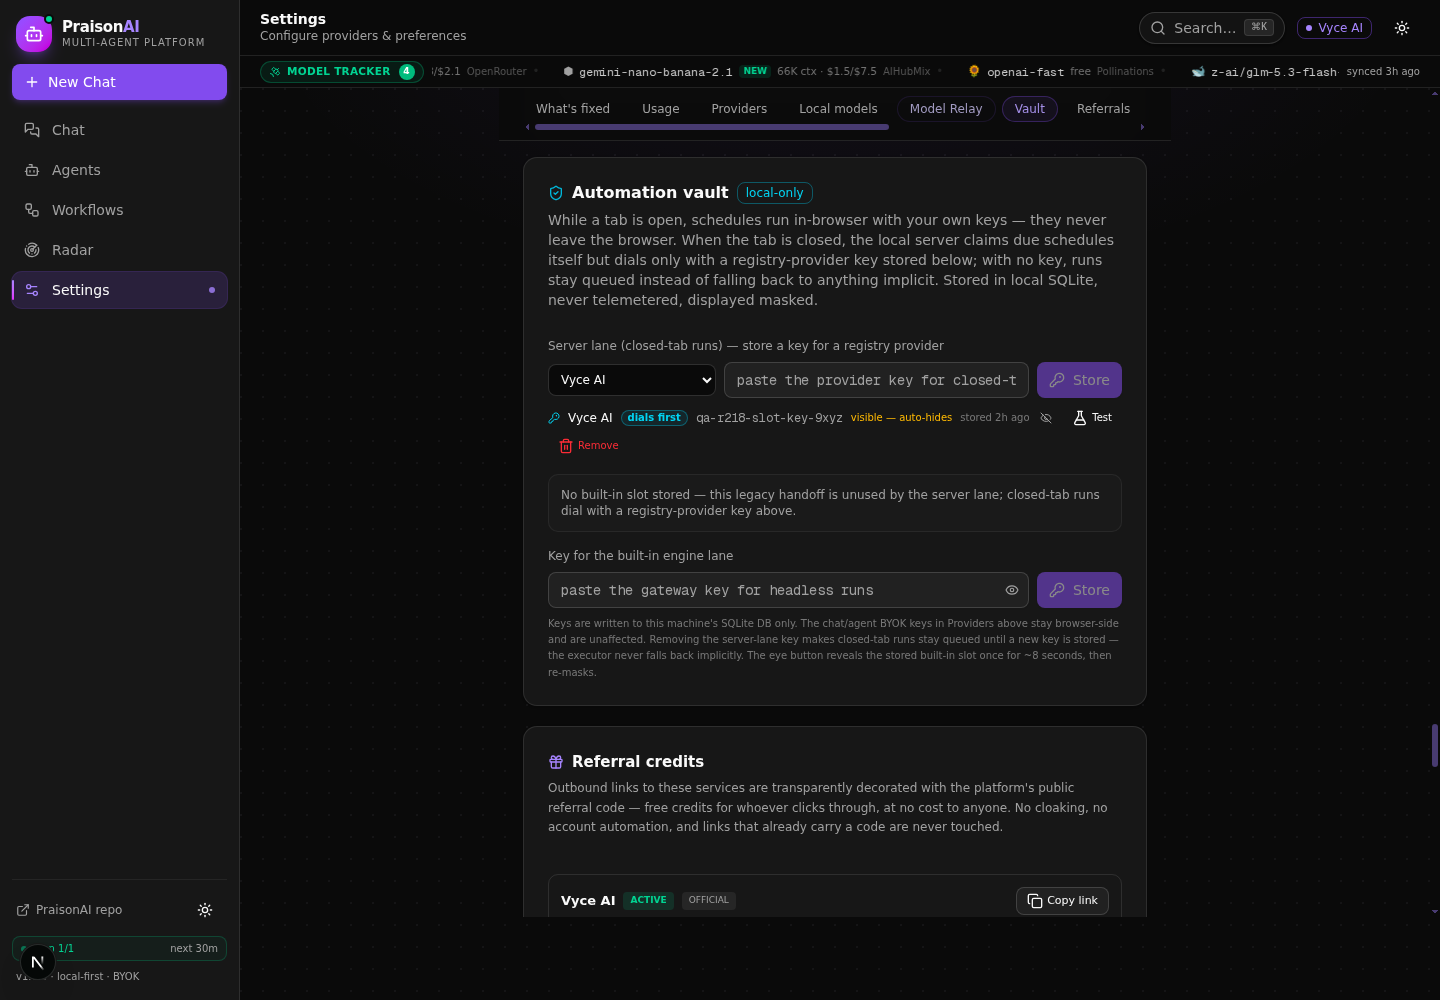
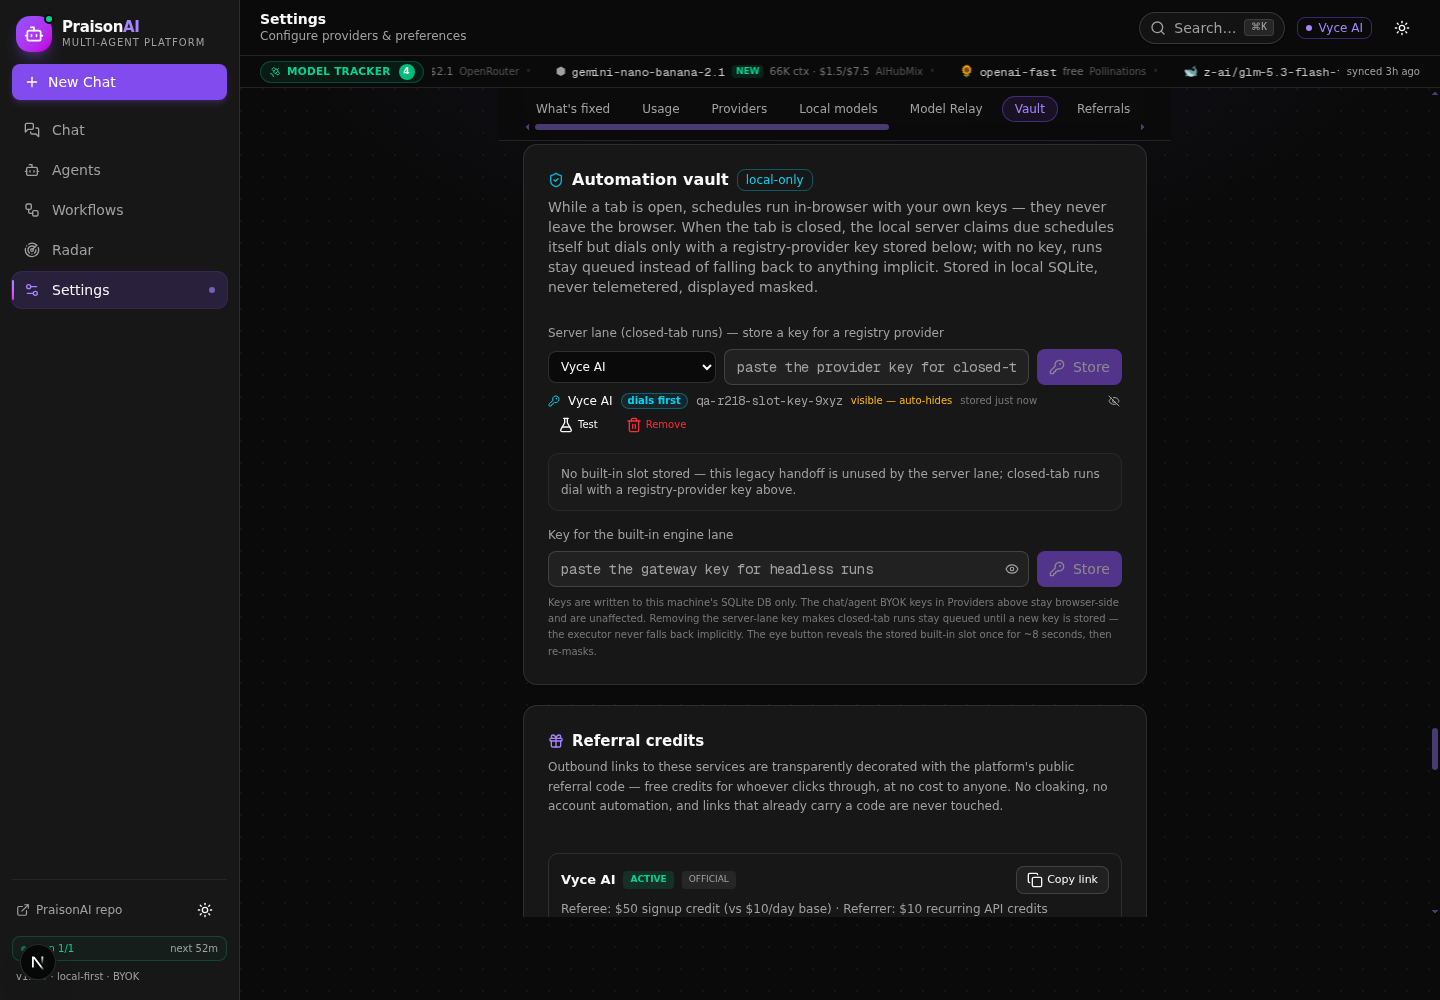
snapshot: 2026-10-07T12:10:08Z auto-backup

diff --git a/src/components/praison/settings/whats-fixed.tsx b/src/components/praison/settings/whats-fixed.tsx
@@ -351,6 +351,15 @@ const FIXES: FixNote[] = [
     lookFor:
       "Settings → provider gallery shows Pollinations as “No key needed — start chatting”; after a Vyce 429 (post-reload), the parked card's failed-dial witness should show a Pollinations dial among the lanes",
   },
+  {
+    round: "r325",
+    title:
+      "The vault route is uniformly CSRF-gated — upsert and delete included, not just the raw-key handoff",
+    detail:
+      "The r321 gate covered POST /api/vault/consume, but POST /api/vault (upsert) and DELETE /api/vault were still open to a drive-by page: a preflight-free simple request could overwrite a stored slot or plant an attacker-chosen provider+key pair the closed-tab executor would then dial. The house double-gate now guards GET, POST, and DELETE; every in-app caller sends the header; non-browser callers (scheduler, CLI, QA scripts) pass unchanged.",
+    lookFor:
+      "No visible change for you (headers are automatic) — Settings → Automation vault behaves exactly as before; foreign pages now get a 403 on every vault operation.",
+  },
 ];
 
 // r294: the covered range is DERIVED from FIXES (first → last entry) instead

diff --git a/scripts/qa-automation-lane.ts b/scripts/qa-automation-lane.ts
@@ -160,6 +160,21 @@ try {
   ok(s1.vaultLane?.hasKey === false, "legacy vaultLane still reported (compat)");
 
   // Shape 2: builtin-only slot → the executor skips it, and the route says so.
+  // r326 incident guard (inline — bun/TS): refuse to seed+destroy vault
+  // slots when a real user vault is populated. The 2026-10-07 wipe of the
+  // user's live Vyce slot happened exactly this way (upsert overwrote it).
+  const guardRes = await fetch(`${BASE}/api/vault`);
+  const guardJson = (await guardRes.json().catch(() => null)) as { vault?: unknown[] } | null;
+  const slotCount = Array.isArray(guardJson?.vault) ? guardJson.vault.length : -1;
+  if (slotCount !== 0) {
+    console.error(
+      `[qa-guard] qa-automation-lane: ABORT — /api/vault holds ` +
+        `${slotCount >= 0 ? slotCount : "an unreadable number of"} slot(s); ` +
+        `seeding would DESTROY user keys (the r326 incident).`
+    );
+    process.exit(2);
+  }
+  ok(true, "qa-guard: vault empty — safe to seed");
   const postRes = await fetch(`${BASE}/api/vault`, {
     method: "POST",
     headers: { "content-type": "application/json" },

diff --git a/worklog.md b/worklog.md
@@ -8700,3 +8700,33 @@ Verification result: PASS
 Open risks: carried: clipboard SUCCESS toast inferred; r241 markdown external-image CSP; Chrome Ctrl+1-8; ZAI abort gap (r251); vault consume round-trip live-unverified (user's Test key button is the witness); git push fork 128 environmental; 8 lib modules still "use client"; orca credit drain is the user's live constraint; answerAs popover unwitnessed; provider-card raw-custom lane un-noted; ResolvedDial lacks providerId (vault-lane 429s un-noted server-side); free-lane quality unknown until first live rotation; USER OWES the one hard reload (Ctrl+Shift+R) — r318/319/320/323 client code stays inert in a stale bundle; pollinations anonymous tier is globally budgeted (429s = memory sinking the lane, by design); orcarouter free pool is free-with-key (r324 probe). New: (1) cdp-qa-vault-chip.mjs C2/C4 assertions are stale (r134 copy vs r205+ chip) — behavior verified correct, strings need the 2-line update; (2) LOCAL_AUTOMATION.md's chip prose (lines ~91-94) may still say "shared lane" where the chip now says "no key — closed-tab runs wait" — same drift family, check when touching the doc next.
 Blockers: none
 Next recommended action: r326 — (1) FIRST read any user report (rotation family stays closed unless a NEW defect shows). (2) Verify HEAD lineage (expect the r325 snapshot or successor). (3) ONE small item: (a) fix cdp-qa-vault-chip.mjs C2/C4 assertions to the current chip contract + append the owed whats-fixed receipt for r325 (both tiny, same vault family, close them together); (b) else perf or UI polish away from workflows/vault. (4) Standing: unmasked tsc + canonical lint; worklog BEFORE snapshot; SMALL commands.
+
+## r326 — INCIDENT + fix: QA suites wiped the user's real Vyce vault key; suites now refuse populated vaults (2026-10-07, Job 424432)
+
+Task ID: r326
+Agent: main (platform dev agent)
+Task: USER-REPORT round (honest deviation from the r325 handoff) — the user pasted the first post-refresh run cards + "not worked properly again". Health 200; HEAD lineage e7307ed66 (r325 snapshot), tree clean (runtime db churn only).
+
+Work Log:
+- INCIDENT CONFESSED (self-inflicted, root-caused): paste 1 (~19:00) showed "server lane: Vyce AI sk-5••••c4f3" — the user had a REAL Vyce slot in the vault. My r325 verification ran the vault QA suites at ~19:30: cdp-qa-vault-slot-affordances E1 upserted a throwaway key OVER the user's slot (POST /api/vault is an upsert — the real key was destroyed in SQLite) and E6 deleted it, its "vault left empty" assertion passing precisely because the wipe was total. Paste 2 (~19:37+) shows "server lane: no key". The suites predate real user data and were destructive the moment a real key existed. THE USER'S KEY IS UNRECOVERABLE — re-store is required (chat reply carries this).
+- ROOT-CAUSE FIX (no workaround): scripts/lib/qa-vault-guard.mjs — assertVaultEmptyOrAbort(): read-only masked GET; if /api/vault holds ANY slot the suite exits 2 with an honest message BEFORE any browser boot or write. Wired into all 6 vault-touching suites (vault-chip, vault-slot-affordances, vault-test, vault-reveal, vault-slot-residue, vault-guard) via dynamic import; inline guard in qa-automation-lane.ts (bun/TS). cdp-qa-vault-restore.mjs deliberately NOT guarded — it touches the localStorage BYOK vault, not /api/vault (different "vault", zero server writes).
+- GUARD PROVEN LIVE: planted a fake "vyce" slot → vault-chip ABORTED (exit 2, message printed, zero writes — abort fires before the pre-clean DELETE); fake removed → suites green again.
+- BONUS CLOSED (owed from r325): chip-suite C2/C4 stale assertions updated to the r205+ honest chip contract — C2 now expects "needs a registry provider key" (builtin-only vault, executor skips legacy builtin), C4 expects "no key — closed-tab runs wait" including the waitFor regex (/shared lane/ → /no key/) and header comments. vault-chip went 5/7 → 7/7.
+- Receipt r325 appended to whats-fixed.tsx (the owed one).
+- RUN-CARD VERDICT (the user's paste, analyzed honestly): (1) the hard reload LANDED — the r320 failed-dial witness renders ("✗8 failed dials (Vyce AI ×4, auto ×4)"), so the family's UI is live in their tab; (2) step 1 completed (280.7s, honest auto-digest fallback for an empty final answer); (3) step 2's 8 dials ALL failed with NETWORK errors ("network unreachable" — sandbox egress flaked mid-run), the ladder descended correctly (Vyce primary ×4 → built-in auto ×4 demotion) and the run parked honestly (network park 1/3, completed steps preserved); (4) Pollinations did NOT dial because the relay pass engages on the park-RESUME rotation ("resume rotates to the relay lane" per the park message), not mid-retry — if the NEXT network-park resume still shows ⇄0/no Pollinations, that is a rotation-family defect to open; (5) gateway 429s climbed 28→52/24h — the built-in auto lane is saturating fast.
+- Verification: guard-abort live proof (exit 2, zero writes); cdp-qa-vault-chip 7/7; cdp-qa-vault-slot-affordances 6/6; npx tsc --noEmit 0 (unmasked); bun run lint 0 errors/33 warnings (exact baseline).
+- Budget: 8 tool rounds.
+
+Stage Summary:
+- The destructive QA class is closed at the root: no vault-touching suite can ever again run against a populated user vault — they abort before any write, proven live. The user's wiped Vyce key needs a one-time re-store (Settings → Automation vault); the in-tab BYOK lane was never affected (localStorage keys are separate), so the failed run was network, not the wipe.
+
+Round Handoff:
+Round ID: r327
+Task owner: main (platform dev agent)
+Scope completed: qa-vault-guard.mjs + 6 suite guards + lane.ts inline guard (abort-on-populated-vault); chip C2/C4 assertions fixed (7/7); whats-fixed r325 receipt.
+User-visible changes: users with stored vault slots are now protected from QA wipes by construction; chip suite asserts the real chip copy; whats-fixed r325 card. USER ACTION: re-store the Vyce key in Settings → Automation vault (the wiped one is gone).
+Verification steps: guard abort proof (fake slot → exit 2 → zero writes → cleanup); vault-chip 7/7; slot-affordances 6/6; tsc 0; lint 0/33.
+Verification result: PASS
+Open risks: carried: clipboard SUCCESS toast inferred; r241 markdown external-image CSP; Chrome Ctrl+1-8; ZAI abort gap (r251); vault consume round-trip live-unverified; git push fork 128 environmental; 8 lib modules still "use client"; orca credit drain is the user's live constraint; answerAs popover unwitnessed; provider-card raw-custom lane un-noted; ResolvedDial lacks providerId (vault-lane 429s un-noted server-side); pollinations anonymous tier is globally budgeted (429s = memory sinking the lane, by design); orcarouter free pool is free-with-key (r324 probe); gateway 429 saturation climbing (52/24h). New: (1) NETWORK-PARK RESUME ROTATION UNWITNESSED — the park message promises "resume rotates to the relay lane"; the user's next resume paste is the test; if ⇄0 persists on a network-park resume, open a rotation-family defect; (2) QA-vs-live-user tension: suites now abort on populated vaults, so scheduled QA during live use will skip — consider a throwaway-profile or --qa-isolated seeding mode if QA coverage matters while the user keeps real slots; (3) LOCAL_AUTOMATION.md chip prose (~91-94) may still say "shared lane" — drift family, check when next touching the doc.
+Blockers: none
+Next recommended action: r327 — (1) FIRST read any user report: a network-park RESUME paste showing ⇄N relay / a Pollinations dial closes the whole family; ⇄0 on a resume = open the rotation defect. (2) Verify HEAD lineage (expect the r326 snapshot or successor). (3) ONE small item: (a) QA isolation mode (throwaway-profile seeding) so suites can run while real slots exist; (b) perf/UI polish away from workflows/vault; (c) the doc's chip prose drift check. (4) Standing: unmasked tsc + canonical lint; worklog BEFORE snapshot; SMALL commands.
